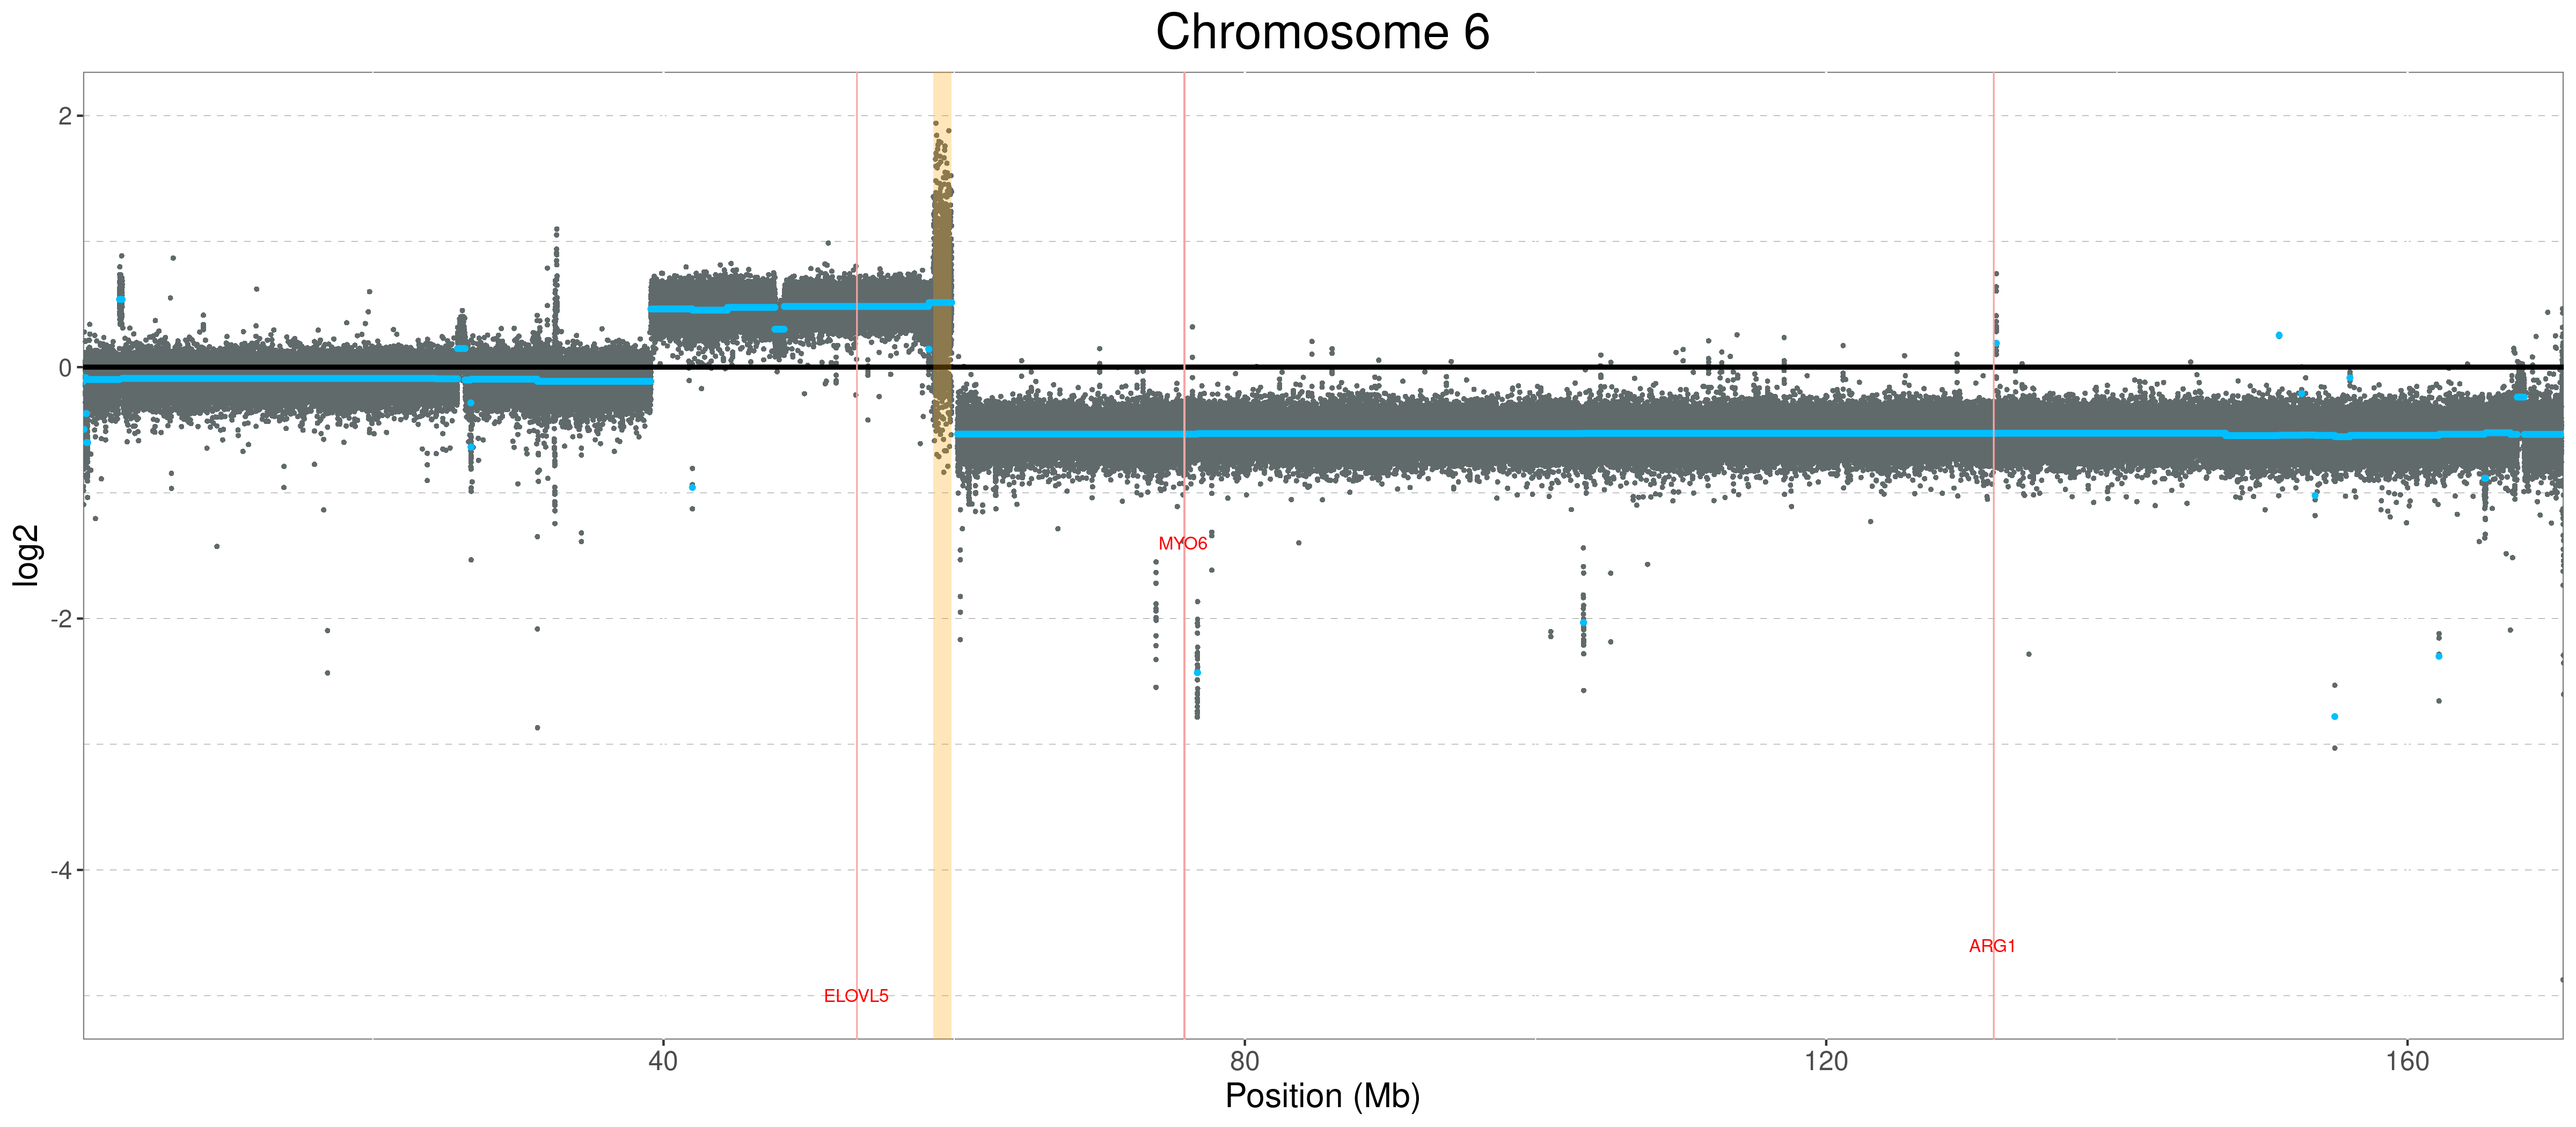
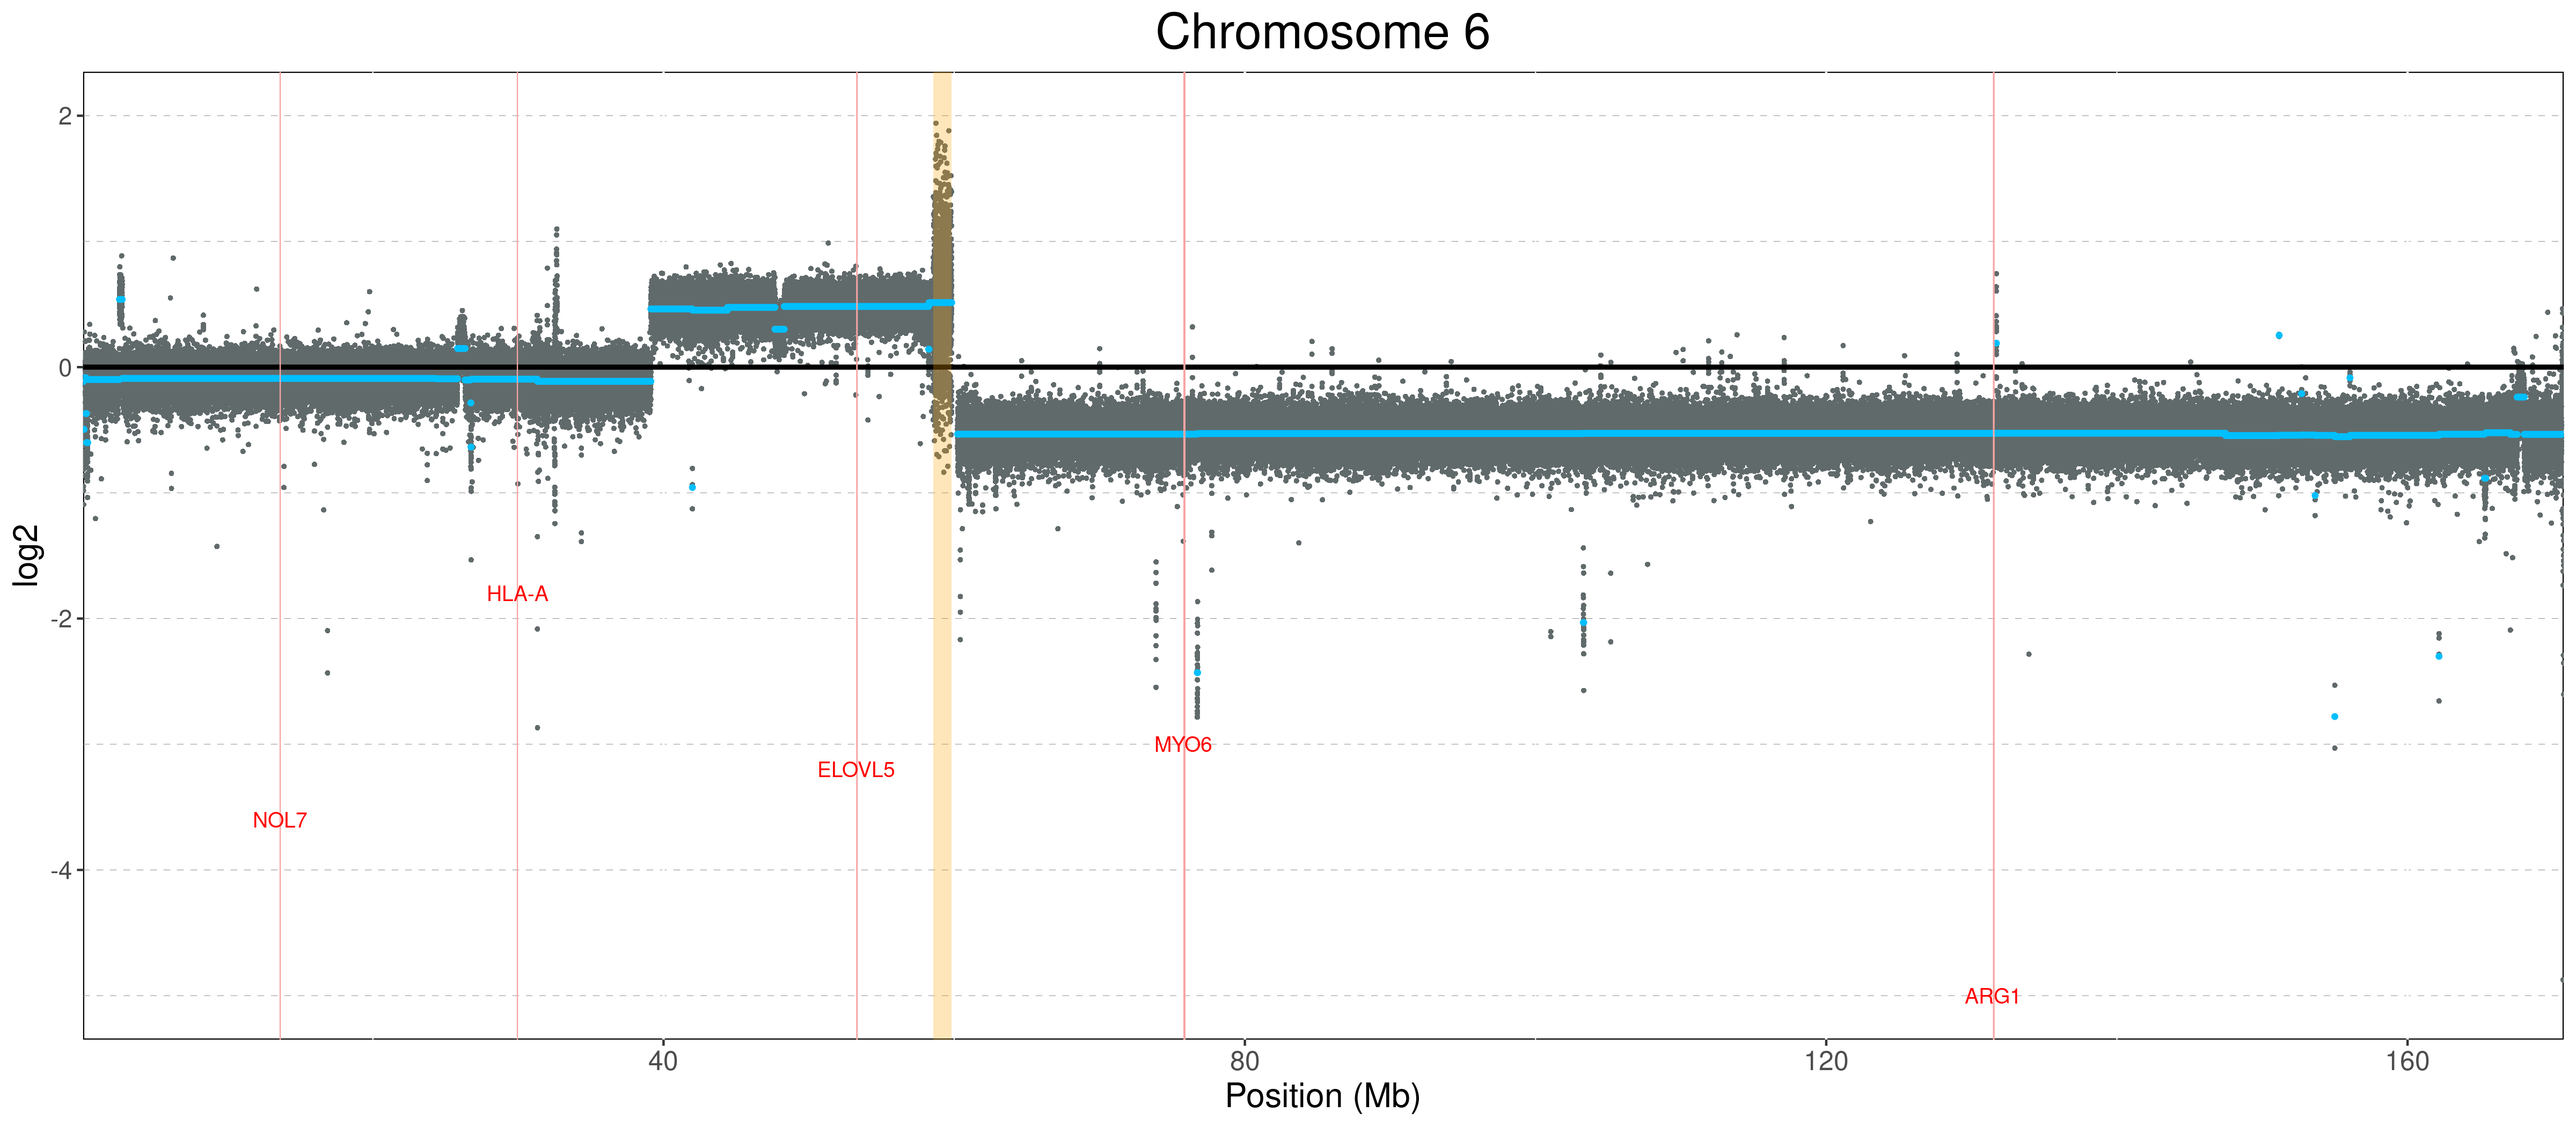
all chromosomes figures

diff --git a/README.md b/README.md
@@ -57,10 +57,17 @@ plot_single_chr(cnr_data, cns_data, chr = "chr6")
 You can give a list of genes which can be plotted in the graph, if located in that chromosome!
 
 ```r
-genes_list <- c("BRCA2","FLT1","TP53", "MIPEP", "NUPL1", "POMP", "PCCA", "XPO4", "SOX21", "ARG1", "MYO6", "ELOVL5")
-single_plot_chr(cnr_data, cns_data, chr = "chr6", genes = genes_list)
+genes_list <- c("BRCA2","FLT1","NOL7", "TP53", "MYC", "NUPL1", "POMP", "HLA-A", "SOX21", "ARG1", "MYO6", "ELOVL5")
+plot_single_chr(cnr_data, cns_data, chr = "chr6", genes = genes_list, gene_text_size = 3.3)
 ```
 ![](img/Chromosome_6_genes.png)
+
+You easily add a chromosome icon displaying duplicated and deleted regions.
+
+```r
+plot_single_chr(cnr_data, cns_data, chr = "chr6", genes = genes_list, gene_text_size = 3.3, chr_picture = TRUE)
+```
+![](img/Chromosome_6_genes_icon.png)
 
 
 #### Single gene
